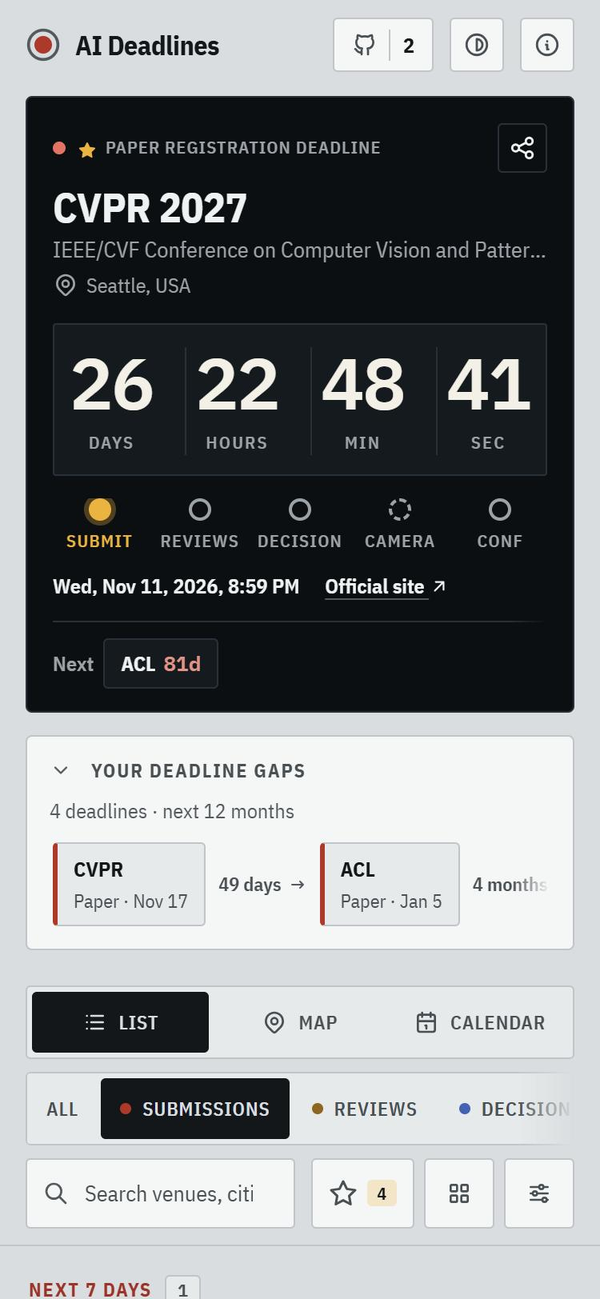
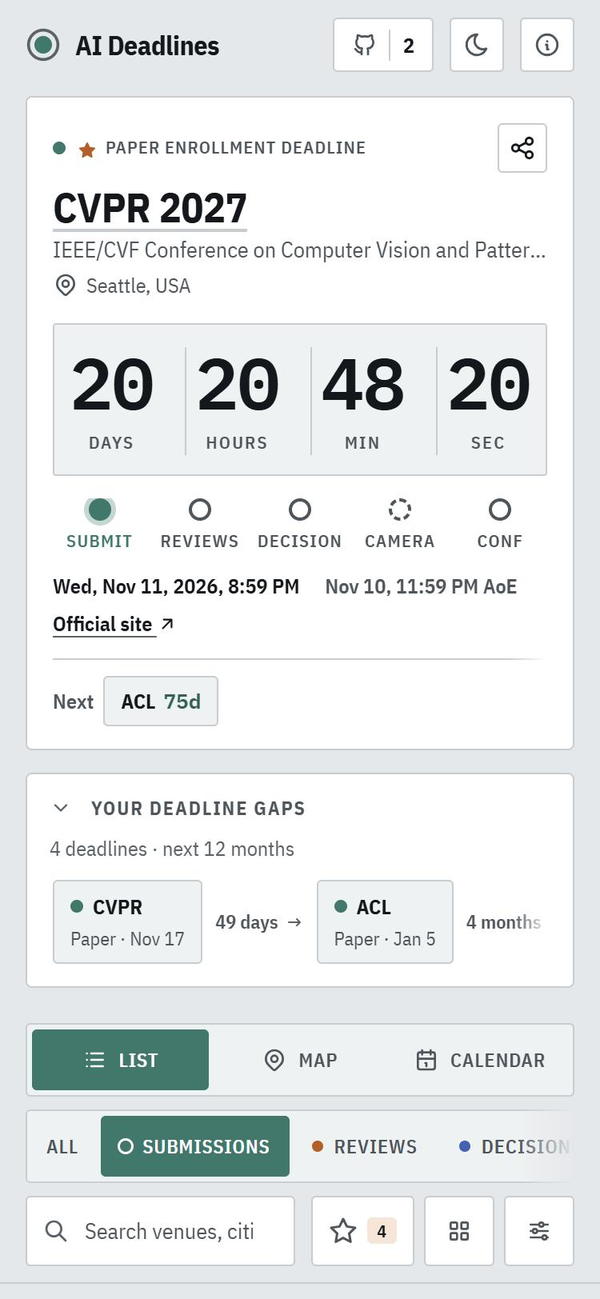
Orange by day, milestone dots instead of edge stripes, venue links
- Light mode uses orange for reviews, estimates, stars and the last-week
  readout; dark mode keeps amber.
- Gap cards, calendar chips and the list bar drop their coloured left
  edge; a milestone dot carries the colour.
- Venue names in the hero and rows link to the official site when known.
- README screenshots from this build.

diff --git a/site/style.css b/site/style.css
@@ -24,13 +24,13 @@
   --accent-ink: #08695c; /* teal text, and teal fills that carry small text */
   --on-accent: #ffffff;
   --lamp: #0b7a6b; /* the lit lamp: the next milestone */
-  --warn: #7a5000;
+  --warn: #a8460a; /* orange: estimates, tentative, sources differ */
   --ok: #08695c;
-  --star: #ffb000; /* fills only */
-  --star-ink: #7a5400; /* the star as an icon or glyph */
+  --star: #f39a52; /* fills only */
+  --star-ink: #c95a0c; /* the star as an icon */
   --on-star: #1b1300; /* text on a --star fill */
   --g-submission: #0b7a6b;
-  --g-reviews: #9a6500;
+  --g-reviews: #c95a0c;
   --g-decision: #1f62b8;
   --g-camera: #6b767d;
   --g-conference: #12181c;
@@ -44,7 +44,7 @@
   --hero-line: #c5cdd2;
   --hero-chip: #eef2f3;
   --clock: #12181c; /* readout digits */
-  --clock-hot: #7a5000; /* readout digits in the last week: amber */
+  --clock-hot: #a8460a; /* readout digits in the last week: orange (amber at night) */
   --clock-tile: #eef2f3; /* the readout panel */
   --scrim: rgb(0 0 0 / .5); /* the shade behind dialogs */
   --tint: rgb(0 0 0 / .12); /* a slight darkening, e.g. the count on a pressed Starred */
@@ -167,9 +167,9 @@ button { font: inherit; color: inherit; }
    Keep at least 44px between the centres of neighbouring controls so the areas don't overlap.
    A row that scrolls sideways clips these areas, so its controls must be 44px tall themselves (see .seg). */
 .brand, .icon-btn, .gh-btn, .pill, .run, .star, .share-btn, .seg button, .sd-x, .hero h1 .linklike, .hero .when a, .gh-link, .foot a, .about-links a,
-.details .quick .ql, .linkbtn, .srcmenu summary, .src-row a { position: relative; }
+.details .quick .ql, .linkbtn, .srcmenu summary, .src-row a, a.name { position: relative; }
 .brand::after, .icon-btn::after, .gh-btn::after, .pill::after, .run::after, .star::after, .share-btn::after, .seg button::after, .sd-x::after,
-.hero h1 .linklike::after, .hero .when a::after, .gh-link::after, .foot a::after, .about-links a::after, .details .quick .ql::after, .linkbtn::after, .exp::after, .src-row a::after,
+.hero h1 .linklike::after, .hero .when a::after, .gh-link::after, .foot a::after, .about-links a::after, .details .quick .ql::after, .linkbtn::after, .exp::after, .src-row a::after, a.name::after,
 .srcmenu summary::before /* its ::after is the ▾ arrow */ {
   content: ""; position: absolute; top: 50%; left: 50%; width: max(100%, 44px); height: max(100%, 44px); transform: translate(-50%, -50%);
 }
@@ -201,8 +201,9 @@ button { font: inherit; color: inherit; }
 .gp:hover span { text-decoration: underline; }
 .gchain { display: flex; align-items: center; gap: 8px; overflow-x: auto; scrollbar-width: none; padding: 8px 24px 2px 2px; mask-image: linear-gradient(90deg, #000 calc(100% - 24px), transparent); }
 .gchain::-webkit-scrollbar { display: none; }
-.gcard { flex: none; display: grid; gap: 1px; text-align: left; border: 1px solid var(--line); border-left: 3px solid var(--c); background: var(--surface-2); border-radius: 3px; padding: 6px 10px; cursor: pointer; }
-.gcard.est { border-style: dashed; border-left-style: solid; background: transparent; }
+.gcard { flex: none; display: grid; gap: 1px; text-align: left; border: 1px solid var(--line); background: var(--surface-2); border-radius: 3px; padding: 6px 10px; cursor: pointer; }
+.gcard.est { border-style: dashed; background: transparent; }
+.gcard b::before, .cchip b::before { content: ""; display: inline-block; width: 8px; height: 8px; border-radius: 50%; background: var(--c); margin-right: 6px; vertical-align: 1px; }
 .gcard b { font-size: 13px; font-weight: 700; white-space: nowrap; }
 .gcard span { font-size: 12px; color: var(--muted); white-space: nowrap; }
 .garrow { flex: none; display: inline-flex; align-items: center; gap: 4px; font-size: 12px; font-weight: 600; color: var(--muted); white-space: nowrap; }
@@ -279,7 +280,7 @@ button { font: inherit; color: inherit; }
 .popover .btn { margin-top: 14px; width: 100%; }
 
 /* ---------- List ---------- */
-.listbar { display: flex; justify-content: space-between; align-items: center; gap: 8px 12px; flex-wrap: wrap; padding: 10px 14px; margin: 0 0 14px; border-radius: 3px; background: var(--surface); border: 1px solid var(--line); border-left: 4px solid var(--star); /* an amber lamp edge, not a tint */ font-size: 14px; }
+.listbar { display: flex; justify-content: space-between; align-items: center; gap: 8px 12px; flex-wrap: wrap; padding: 10px 14px; margin: 0 0 14px; border-radius: 3px; background: var(--surface); border: 1px solid var(--line); font-size: 14px; }
 .listbar[hidden] { display: none; }
 .lb-actions { display: flex; gap: 6px; align-items: center; flex-wrap: wrap; }
 .count { color: var(--muted); font-size: 13px; margin: 8px 0; }
@@ -313,6 +314,8 @@ button { font: inherit; color: inherit; }
 .info { grid-area: info; min-width: 0; }
 .info .t { display: flex; gap: 6px; align-items: center; flex-wrap: wrap; }
 .info .name { font-weight: 700; font-size: 17px; letter-spacing: -.015em; }
+a.name, .hero h1 a.linklike { text-decoration: underline; text-decoration-color: var(--line); text-decoration-thickness: 2px; text-underline-offset: 4px; }
+a.name:hover, .hero h1 a.linklike:hover { text-decoration-color: currentColor; }
 .rank { font-size: 11px; font-weight: 700; color: var(--muted); border: 1px solid var(--line); border-radius: 3px; padding: 0 6px; line-height: 18px; }
 /* One line: the milestone name gives way first, the date stays whole. */
 .info .what { font-size: 14px; margin-top: 2px; min-width: 0; display: flex; align-items: center; white-space: nowrap; }
@@ -453,10 +456,10 @@ body[data-view="map"] #focus { visibility: hidden; }
 .cal-cell.blank { background: color-mix(in srgb, var(--surface-2) 60%, var(--surface)); }
 /* Past days are quieter by colour, not opacity: the text stays --muted (4.5:1 or better). */
 .cal-cell.past .cchip, .cal-cell.past .cchip b { color: var(--muted); }
-.cal-cell.past .cchip { background: color-mix(in srgb, var(--c) 8%, transparent); border-left-color: color-mix(in srgb, var(--c) 55%, var(--surface)); }
+.cal-cell.past .cchip { background: color-mix(in srgb, var(--c) 6%, transparent); }
 .cal-n { font-size: 12px; color: var(--muted); font-weight: 600; width: 24px; height: 24px; display: inline-grid; place-items: center; }
 .cal-cell.today .cal-n { background: var(--accent-ink); color: var(--on-accent); border-radius: 3px; }
-.cchip { display: block; font-size: 12px; line-height: 1.4; padding: 2px 6px; border-radius: 3px; background: color-mix(in srgb, var(--c) 14%, transparent); border-left: 3px solid var(--c); text-decoration: none; white-space: nowrap; overflow: hidden; text-overflow: ellipsis; }
+.cchip { display: block; font-size: 12px; line-height: 1.4; padding: 2px 6px; border-radius: 3px; background: color-mix(in srgb, var(--c) 12%, transparent); text-decoration: none; white-space: nowrap; overflow: hidden; text-overflow: ellipsis; }
 .cchip:hover { background: color-mix(in srgb, var(--c) 24%, transparent); }
 .cchip b { font-weight: 700; }
 .cmore { border: 0; background: none; color: var(--muted); font-size: 12px; text-align: left; padding: 0 6px; cursor: pointer; }

diff --git a/site/app.js b/site/app.js
@@ -416,7 +416,9 @@ function renderHero() {
       <div class="eyebrow"><span class="sw" style="background:var(--g-${m.group})"></span><span class="eb-text">${mine.length ? `<span class="eb-star" aria-hidden="true">${ICON.starIc}</span>` : ""}<span class="eb-pre">${mine.length ? "Your next deadline" : "Next up"} · </span>${esc(m.label)}</span></div>
       <button class="pill hero-share" type="button" data-sharecard="${esc(s.key)}" aria-label="Share card for ${esc(s.title)}"><span class="hs-icon">${SHARE_ICON}</span><span class="hs-text">Share card</span></button>
     </div>
-    <h1><button class="linklike" type="button" data-open="${esc(s.key)}">${esc(s.title)} ${esc(e.year)}</button></h1>
+    <h1>${safeUrl(e.link)
+      ? `<a class="linklike" href="${esc(e.link)}" target="_blank" rel="noopener" title="Official site">${esc(s.title)} ${esc(e.year)}</a>`
+      : `<button class="linklike" type="button" data-open="${esc(s.key)}">${esc(s.title)} ${esc(e.year)}</button>`}</h1>
     <p class="what">${esc(s.full_name || "")}</p>
     ${place ? `<p class="place">${ICON.pin}${esc(place)}</p>` : ""}
     <div class="clock" role="timer" aria-label="Time left">${unit(p.d, "d")}${unit(p.h, "h")}${unit(p.m, "m")}${unit(p.s, "s")}</div>
@@ -510,7 +512,7 @@ function rowHtml({ s, next }, now) {
     <div class="row-main" role="button" tabindex="0" aria-expanded="${open}">
       <div class="cdbox" data-at="${esc(next.m.at)}" data-est="${next.m.est ? 1 : ""}">${cdBoxHtml(ms, next.m.est)}</div>
       <div class="info">
-        <div class="t"><span class="name">${esc(s.title)} ${esc(e.year)}</span>${rank}${flags}</div>
+        <div class="t">${safeUrl(e.link) ? `<a class="name" href="${esc(e.link)}" target="_blank" rel="noopener" title="Official site">${esc(s.title)} ${esc(e.year)}</a>` : `<span class="name">${esc(s.title)} ${esc(e.year)}</span>`}${rank}${flags}</div>
         <div class="what"><span class="sw" style="background:var(--g-${next.m.group})"></span><b class="lab-full" title="${esc(next.m.label)}">${esc(next.m.label)}</b><b class="lab-short" title="${esc(next.m.label)}">${esc(shortLabel(next.m))}</b><span class="dot">·</span><span class="when">${esc(whenShort(next))}</span></div>
         <div class="sub">${esc(s.full_name || "")}${place ? ` · ${esc(place)}` : ""}</div>
       </div>

diff --git a/site/share.js b/site/share.js
@@ -20,7 +20,7 @@ const CARD_THEMES = {
   // The white instrument panel. A saved "paper" falls back to it.
   daylight: {
     name: "Daylight", bg1: "#ffffff", bg2: "#e4e8ea", glow: 0x00, glowColor: "#ffffff", text: "#12181c", muted: "#4a565d", faint: "#56626a", line: "#c5cdd2",
-    accent: "#08695c", num: "#12181c", submission: "#0b7a6b", reviews: "#9a6500", decision: "#1f62b8", camera: "#6b767d", conference: "#12181c", other: "#8a6a4a",
+    accent: "#08695c", num: "#12181c", submission: "#0b7a6b", reviews: "#c95a0c", decision: "#1f62b8", camera: "#6b767d", conference: "#12181c", other: "#8a6a4a",
   },
   aurora: {
     name: "Aurora", bg1: "#0f2d4f", bg2: "#03101d", glow: 0x66, glowColor: "#38e6c5", text: "#eef7ff", muted: "#a7bdd3", faint: "#8097ae", line: "#1f3d5c",

diff --git a/DESIGN.md b/DESIGN.md
@@ -11,8 +11,8 @@ The rules for how the site looks and sounds. Read this before you change `site/s
 **An instrument panel** (chosen 2026-10-21). A clean white panel in daylight and soft slate at night, a countdown readout in the middle of it, and a row of indicator lamps for the milestones. One teal indicator means "now": the next milestone, the primary button, the selected tab. It should feel calm, precise and easy to read outdoors on a phone. It should **not** feel like a hacker terminal (no green-on-black), a sci-fi film (no glows), an AI-built dashboard (no purple, no gradients, no cream page) or a black slab: there is no pure black in either theme.
 
 - **Signature detail:** the row of milestone lamps under the hero readout; the next one is lit teal.
-- **Colour is rationed.** Panels are white and grey (slate at night). Colour appears only as a lamp, a milestone dot, a status word, the teal keys and the amber last-week readout. No red anywhere.
-- **Colour always means something:** teal = act now (submission, "now"), amber = attention (reviews, the last week, estimates), blue = decision, grey = done (camera-ready), ink/white = the conference itself. Never add colour for decoration.
+- **Colour is rationed.** Panels are white and grey (slate at night). Colour appears only as a lamp, a milestone dot, a status word, the teal keys and the last-week readout. No red anywhere, and no coloured accent stripes down the left edge of cards: a small dot carries the colour instead.
+- **Colour always means something:** teal = act now (submission, "now"), amber at night / orange by day = attention (reviews, the last week, estimates), blue = decision, grey = done (camera-ready), ink/white = the conference itself. Never add colour for decoration.
 - **Deliberate exceptions to Claude's defaults:** ALL-CAPS for small labels, eyebrows and buttons, like the engraved labels on an instrument. **Venue names are never uppercased**: "NeurIPS" and "ICLR" keep their own casing.
 - How we got here: `design/directions.html` (round one: Badge, Mission control, Signal) and `design/directions-2.html` (round two: Amber board, Apollo console, Phosphor). Apollo console was live from 2026-10-15; on 2026-10-21 its coral red and black screens were replaced by this teal palette with light panels.
 
@@ -49,10 +49,10 @@ Design tokens are the CSS variables in `:root`. Always use a token, never a raw 
 | `--key` | `#0b7a6b` | `#3cc9b0` | Lit keys: the primary button, the selected tab or chip, a pressed toggle |
 | `--on-key` | `#ffffff` | `#0e1316` | Text on `--key` (5.2:1 light, 9.1:1 dark) |
 | `--lamp` | `#0b7a6b` | `#3cc9b0` | The lit lamp and its label (the next milestone) |
-| `--warn` | `#7a5000` | `#ffb000` | Estimated, Tentative, "sources differ", closing soon |
+| `--warn` | `#a8460a` | `#ffb000` | Estimated, Tentative, "sources differ", closing soon. Orange by day: amber dark enough for white turns brown |
 | `--ok` | `#08695c` | `#3cc9b0` | Confirmed by two sources |
-| `--star` | `#ffb000` | `#ffb000` | Starred venues, as a **fill** only (the pressed Starred button) |
-| `--star-ink` | `#7a5400` | `#ffb000` | The ★ as an icon: on rows and in the hero's label (5.5:1 or better) |
+| `--star` | `#f39a52` | `#ffb000` | Starred venues, as a **fill** only (the pressed Starred button) |
+| `--star-ink` | `#c95a0c` | `#ffb000` | The star icon: on rows and in the hero's label (3.4:1 or better) |
 | `--on-star` | `#1b1300` | `#1b1300` | Text on a `--star` fill (10:1) |
 
 ### The panel (hero)
@@ -67,7 +67,7 @@ The hero follows the theme: a white panel in light mode, slate at night. It has 
 | `--hero-line` | `#c5cdd2` | `#2a353d` | Borders and dividers on the panel |
 | `--hero-chip` | `#eef2f3` | `#1f2930` | The "Next" chips |
 | `--clock` | `#12181c` | `#eef2f3` | Readout digits |
-| `--clock-hot` | `#7a5000` | `#ffb000` | Readout digits in the last week (`.hero.urgent`): amber, not red |
+| `--clock-hot` | `#a8460a` | `#ffb000` | Readout digits in the last week (`.hero.urgent`): orange by day, amber at night, never red |
 | `--clock-tile` | `#eef2f3` | `#1f2930` | The readout panel, and the countdown box on each row |
 
 No glow and no gradient.
@@ -79,7 +79,7 @@ Each milestone group has one colour everywhere: row dots, lamps, the calendar, t
 | Group | Lamp | Token | Light | Dark |
 |---|---|---|---|---|
 | Submission | teal, act now | `--g-submission` | `#0b7a6b` | `#3cc9b0` |
-| Reviews / rebuttal | amber, attention | `--g-reviews` | `#9a6500` | `#ffb000` |
+| Reviews / rebuttal | orange / amber, attention | `--g-reviews` | `#c95a0c` | `#ffb000` |
 | Decision | blue | `--g-decision` | `#1f62b8` | `#5aa7ff` |
 | Camera-ready | grey, done | `--g-camera` | `#6b767d` | `#8d9aa2` |
 | Conference | ink / white, the event | `--g-conference` | `#12181c` | `#eef2f3` |
@@ -164,16 +164,17 @@ One unit leads at each stage, and the next smaller unit joins only when it matte
 ## 5. Components
 
 - **Hero (the panel):** eyebrow (milestone, ALL CAPS), venue name (own casing), place, the readout panel, the lamp row (Submit · Reviews · Decision · Camera · Conf; the next one lit in `--lamp`, done ones in their milestone colour, future ones as unlit rings), the exact time in your zone and in AoE, then the "Next" runway of the following three.
-- **Deadline gaps:** a strip that shows how close your starred deadlines are to each other.
-- **Shared or starred list bar:** a plain panel with a 4 px `--star` edge on the left (an amber lamp edge, not a tint).
+- **Deadline gaps:** a strip that shows how close your starred deadlines are to each other. Each card starts with a milestone dot.
+- **Shared or starred list bar:** a plain panel; the star icon in its label marks it.
 - **Header:** the brand, the GitHub star button, a light/dark toggle (the icon shows the mode it switches to; until it's used, the page follows the device setting) and About.
 - **Toolbar:** milestone focus (segmented), List / Map / Calendar, search, Starred, Areas, Filters.
 - **Venue list:** the main venues by default, then a line "N more venues outside the main list · Show all". Filters has the same switch (Show all venues).
-- **Row:** a readout tile (`--clock-tile`) on the left with the countdown in `--clock` (teal under 30 days, amber in the last week), venue and next milestone, badges, star and share. Tap to open the timeline, quick links and sources.
+- **Venue names link to the official site** when one is known (hero and rows), underlined in `--line` and opening in a new tab; without a site, the hero name opens the venue's row. Tapping anywhere else on a row opens its details.
+- **Row:** a readout tile (`--clock-tile`) on the left with the countdown in `--clock` (teal under 30 days, orange by day / amber at night in the last week), venue and next milestone, badges, star and share. Tap to open the timeline, quick links and sources.
 - **Buttons:** primary = `--key` fill with `--on-key` text, ALL CAPS, one per view. Secondary = `--surface` with a `--line` border. Corners 3 px.
 - **Chips and segmented controls:** 3 px corners, the selected one is a lit key: `--key` fill with `--on-key` text.
 - **Badges:** `est` (dashed, Estimated or Assumed), `tent` (Tentative), `ok` (two sources agree), `warn` (sources differ, with the Tabler alert-triangle).
-- **Calendar:** a month grid with chips for mouse users, an agenda list on phones and touch tablets.
+- **Calendar:** a month grid with chips for mouse users (a milestone dot and a light tint of its colour), an agenda list on phones and touch tablets.
 - **Map:** Leaflet with a Natural Earth basemap in the panel greys, plus a "To be announced" list.
 - **Dialogs:** Filters, Areas, About, Credits and Share. Bottom sheet on phones, 4 px corners on desktop.
 - **Icons:** **Tabler Icons** (MIT, via Iconify), 2 px stroke, round caps, inline SVG with `stroke="currentColor"`, kept in the `ICON` object at the top of `app.js` (and inline in `index.html`). Disclosure chevrons are Tabler paths used as CSS masks (`--chev-right`, `--chev-down`). Outlook has no Tabler mark, so its calendar button uses `mail`. New icons come from Tabler only; never hand-drawn.
@@ -255,8 +256,11 @@ Use the design-brief skill's scripts (`~/.claude/skills/design-brief/references/
 
 **2026-10-21, Teal instrument:** both themes, at 375 px (touch) and 1100 px (mouse), eight states each (as above). At 375 px: 1,777 text elements and 218 controls per theme. At 1100 px: 1,894 text elements and 378 controls per theme (fewer than before because the list now starts with the main venues). First run: 1 contrast failure (the hero's star icon in `--star` on the white panel, 1.8:1, fixed with `--star-ink`) and 1 control at 43 px ("Official site" on a half pixel, now a 46 px hit area). Final: 0 contrast failures, 0 controls under 44 px, 0 overlaps. Design lint: 0 errors, 0 warnings. Share-card themes Slate and Daylight checked by maths along their gradients: worst pairs 5.4:1 (Slate `other`) and 3.8:1 (Daylight `camera`, a 3:1 dot colour).
 
+**2026-10-22, orange by day, no stripes, venue links:** both themes, at 375 px and 1100 px, the same eight states. 0 contrast failures, 0 controls under 44 px, 0 overlaps; design lint 0 errors, 0 warnings. The venue-name links have 44 px hit areas.
+
 ## History
 
 - **2026-10-14: Signal**, "a departures board for papers": an off-white page, a black hero with amber digits on split-flap tiles, Chivo + Chivo Mono. Comparisons: `design/palettes.html`, `design/font-options.html`; `design/palettes.css` keeps the candidates.
 - **2026-10-15: Apollo console** replaces it, after a full design brief (researchers on phones; the countdown first; concepts considered: a conference badge, mission control, the departures board). Signal's off-white page and orange-red accent were close to Claude's own look, and green-on-black (Phosphor) is the terminal cliché, so both were set aside.
 - **2026-10-21: Teal instrument** replaces Apollo's colours (same fonts, layout and lamps). The coral red read as a default, and the black screens felt heavy, especially in light mode: the hero is now a white panel in light mode and slate at night, teal replaces red as the "now" colour, amber marks the last week, and camera-ready becomes grey. Compared against a sage LCD and a forest-green console.
+- **2026-10-22:** by day the warm colour is orange instead of dark gold (amber dark enough for white turns brown); accent stripes on cards removed in favour of milestone dots; venue names link to their official sites.

diff --git a/README.md b/README.md
@@ -3,7 +3,7 @@
 </p>
 
 <p align="center">
-  <a href="https://ai-deadlines.ruzcko.com"><img src="https://img.shields.io/badge/live-ai--deadlines.ruzcko.com-c62a20?logo=cloudflare&logoColor=white" alt="Live site"></a>
+  <a href="https://ai-deadlines.ruzcko.com"><img src="https://img.shields.io/badge/live-ai--deadlines.ruzcko.com-0b7a6b?logo=cloudflare&logoColor=white" alt="Live site"></a>
   <a href="https://github.com/ruzcko/ai-deadlines/actions/workflows/refresh.yml"><img src="https://github.com/ruzcko/ai-deadlines/actions/workflows/refresh.yml/badge.svg" alt="Refresh data"></a>
   <a href="https://github.com/ruzcko/ai-deadlines/actions/workflows/scrape.yml"><img src="https://github.com/ruzcko/ai-deadlines/actions/workflows/scrape.yml/badge.svg" alt="Read official sites"></a>
   <a href="https://github.com/huggingface/ai-deadlines"><img src="https://img.shields.io/badge/data-huggingface%2Fai--deadlines-ffd21e?logo=huggingface&logoColor=black" alt="Data: huggingface/ai-deadlines"></a>
